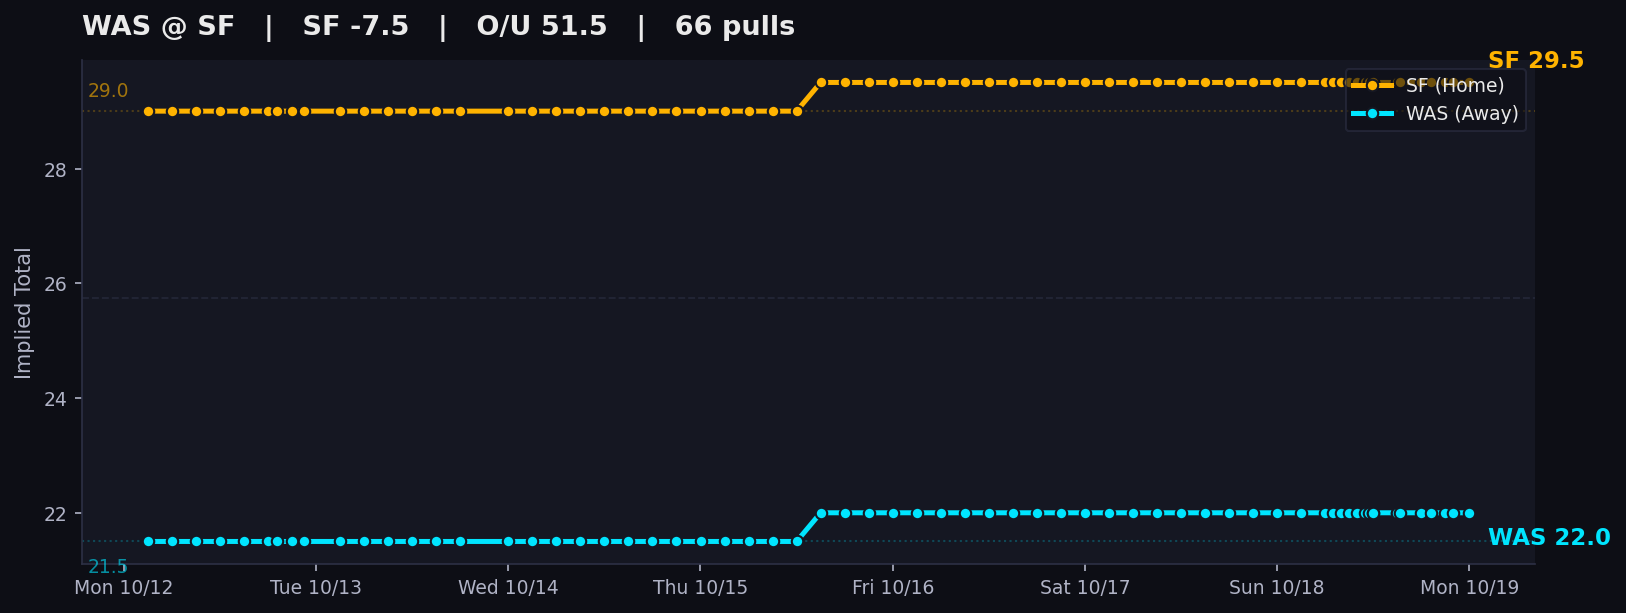
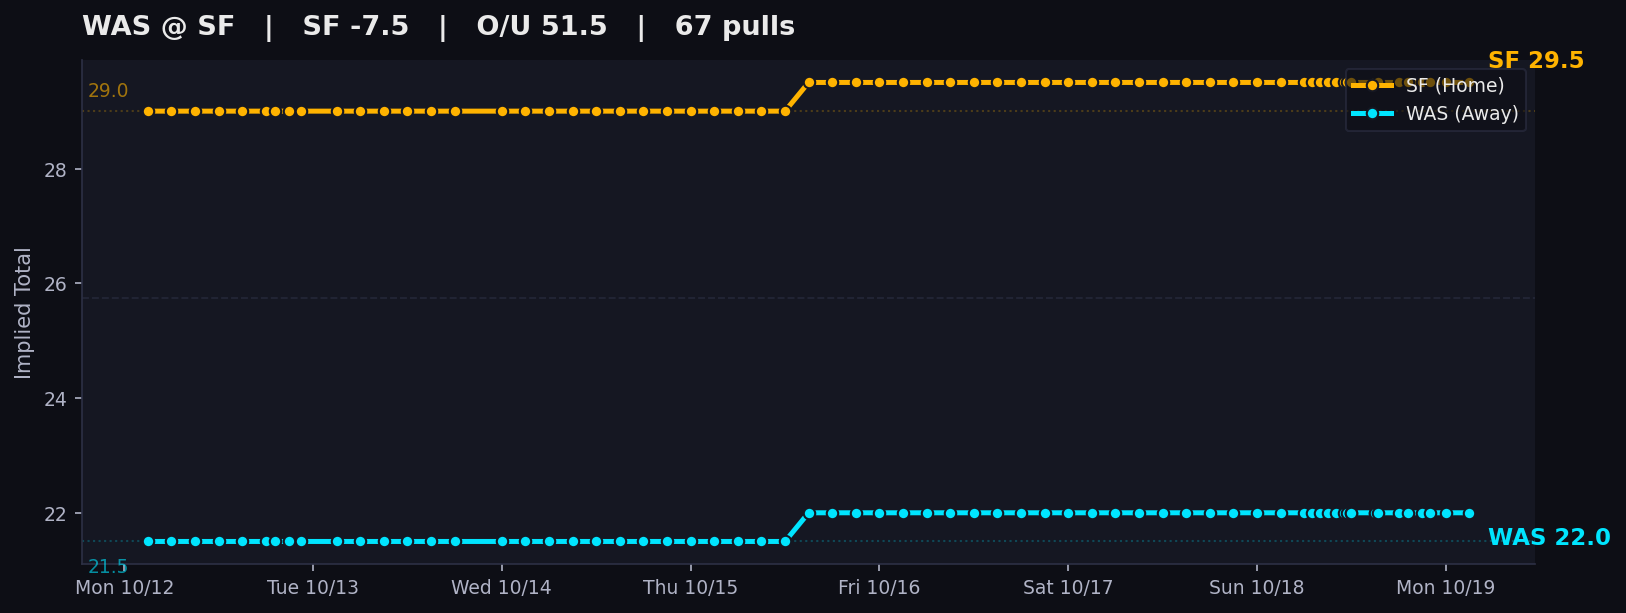
auto: local tracker sync

diff --git a/charts/index.html b/charts/index.html
@@ -311,7 +311,7 @@
     </div>
     <p class='sub'>
       DraftKings main lines &middot; Pinnacle cross-check &middot; Updated by the local Mac tracker<br>
-      Page rendered Mon Oct 19, 2026 12:00 AM CDT &middot; 830 valid chart dots &middot; 875 total pull attempts
+      Page rendered Mon Oct 19, 2026 3:00 AM CDT &middot; 831 valid chart dots &middot; 876 total pull attempts
       <span class='legend-box'>
         <span class='dot-teal'>● Away implied total</span>
         <span class='dot-amber'>● Home implied total</span>
@@ -324,9 +324,9 @@
     </details>
   </header>
 
-  <div id='feed-banner' class='alert-banner healthy' data-banner-kind='healthy' data-feed-ts='2026-10-19T05:00:00.890296+00:00' data-feed-ts-label='Mon Oct 19, 12:00 AM CDT'>
+  <div id='feed-banner' class='alert-banner healthy' data-banner-kind='healthy' data-feed-ts='2026-10-19T08:00:00.693175+00:00' data-feed-ts-label='Mon Oct 19, 3:00 AM CDT'>
             <span class='status-dot'></span>
-            <b>Feed Healthy:</b> All 1 open markets updated. 13 games have started and is showing its final verified pregame line. Board age based on oldest open market: <span id='feed-time'>Mon Oct 19, 12:00 AM CDT</span> (<span id='feed-age-dynamic'>just now</span>).
+            <b>Feed Healthy:</b> All 1 open markets updated. 13 games have started and is showing its final verified pregame line. Board age based on oldest open market: <span id='feed-time'>Mon Oct 19, 3:00 AM CDT</span> (<span id='feed-age-dynamic'>just now</span>).
         </div>
 
   <nav class='filter-bar' aria-label='Filter games by slate'>
@@ -396,7 +396,7 @@
                 <div><span>Last valid pull</span><strong>Thu 6:00 PM CT</strong></div>
                 <div><span>Chart dots</span><strong>34</strong></div>
             </div>
-                    <img class='expanded-chart' src='SEA_DEN.png?v=1792386016' alt='SEA at DEN line movement chart'>
+                    <img class='expanded-chart' src='SEA_DEN.png?v=1792396815' alt='SEA at DEN line movement chart'>
                     <p class='movement-note'>Total 42.5 → 40.5</p>
                 </div>
             </td>
@@ -437,7 +437,7 @@
                 <div><span>Last valid pull</span><strong>Sun 8:00 AM CT</strong></div>
                 <div><span>Chart dots</span><strong>56</strong></div>
             </div>
-                    <img class='expanded-chart' src='HOU_JAX.png?v=1792386016' alt='HOU at JAX line movement chart'>
+                    <img class='expanded-chart' src='HOU_JAX.png?v=1792396815' alt='HOU at JAX line movement chart'>
                     <p class='movement-note'>Spread JAX -3.0 → -2.5; Total 43.5 → 41.5</p>
                 </div>
             </td>
@@ -478,7 +478,7 @@
                 <div><span>Last valid pull</span><strong>Sun 12:00 PM CT</strong></div>
                 <div><span>Chart dots</span><strong>62</strong></div>
             </div>
-                    <img class='expanded-chart' src='CAR_PHI.png?v=1792386016' alt='CAR at PHI line movement chart'>
+                    <img class='expanded-chart' src='CAR_PHI.png?v=1792396815' alt='CAR at PHI line movement chart'>
                     <p class='movement-note'>Spread CAR +1.5 → -3.0; Total 42.5 → 39.5</p>
                 </div>
             </td>
@@ -513,7 +513,7 @@
                 <div><span>Last valid pull</span><strong>Sun 12:00 PM CT</strong></div>
                 <div><span>Chart dots</span><strong>55</strong></div>
             </div>
-                    <img class='expanded-chart' src='CHI_ATL.png?v=1792386016' alt='CHI at ATL line movement chart'>
+                    <img class='expanded-chart' src='CHI_ATL.png?v=1792396815' alt='CHI at ATL line movement chart'>
                     <p class='movement-note'>Spread CHI -3.0 → -1.5; Total 48.5 → 51.5</p>
                 </div>
             </td>
@@ -548,7 +548,7 @@
                 <div><span>Last valid pull</span><strong>Sun 12:00 PM CT</strong></div>
                 <div><span>Chart dots</span><strong>62</strong></div>
             </div>
-                    <img class='expanded-chart' src='PIT_TB.png?v=1792386016' alt='PIT at TB line movement chart'>
+                    <img class='expanded-chart' src='PIT_TB.png?v=1792396815' alt='PIT at TB line movement chart'>
                     <p class='movement-note'>Spread PIT -3.0 → -2.5; Total 40.5 → 37.5</p>
                 </div>
             </td>
@@ -583,7 +583,7 @@
                 <div><span>Last valid pull</span><strong>Sun 12:00 PM CT</strong></div>
                 <div><span>Chart dots</span><strong>62</strong></div>
             </div>
-                    <img class='expanded-chart' src='NO_NYG.png?v=1792386016' alt='NO at NYG line movement chart'>
+                    <img class='expanded-chart' src='NO_NYG.png?v=1792396815' alt='NO at NYG line movement chart'>
                     <p class='movement-note'>Spread NO +1.5 → -1.5</p>
                 </div>
             </td>
@@ -618,7 +618,7 @@
                 <div><span>Last valid pull</span><strong>Sun 12:00 PM CT</strong></div>
                 <div><span>Chart dots</span><strong>55</strong></div>
             </div>
-                    <img class='expanded-chart' src='BAL_CLE.png?v=1792386016' alt='BAL at CLE line movement chart'>
+                    <img class='expanded-chart' src='BAL_CLE.png?v=1792396815' alt='BAL at CLE line movement chart'>
                     <p class='movement-note'>Spread BAL -4.5 → -3.0; Total 40.5 → 39.5</p>
                 </div>
             </td>
@@ -653,7 +653,7 @@
                 <div><span>Last valid pull</span><strong>Sun 12:00 PM CT</strong></div>
                 <div><span>Chart dots</span><strong>62</strong></div>
             </div>
-                    <img class='expanded-chart' src='NYJ_NE.png?v=1792386016' alt='NYJ at NE line movement chart'>
+                    <img class='expanded-chart' src='NYJ_NE.png?v=1792396815' alt='NYJ at NE line movement chart'>
                     <p class='movement-note'>Total 44.5 → 43.5</p>
                 </div>
             </td>
@@ -688,7 +688,7 @@
                 <div><span>Last valid pull</span><strong>Sun 12:00 PM CT</strong></div>
                 <div><span>Chart dots</span><strong>62</strong></div>
             </div>
-                    <img class='expanded-chart' src='TEN_IND.png?v=1792386016' alt='TEN at IND line movement chart'>
+                    <img class='expanded-chart' src='TEN_IND.png?v=1792396815' alt='TEN at IND line movement chart'>
                     <p class='movement-note'>Spread IND -7.0 → -6.5; Total 44.5 → 43.5</p>
                 </div>
             </td>
@@ -729,7 +729,7 @@
                 <div><span>Last valid pull</span><strong>Sun 3:20 PM CT</strong></div>
                 <div><span>Chart dots</span><strong>64</strong></div>
             </div>
-                    <img class='expanded-chart' src='LAC_KC.png?v=1792386016' alt='LAC at KC line movement chart'>
+                    <img class='expanded-chart' src='LAC_KC.png?v=1792396815' alt='LAC at KC line movement chart'>
                     <p class='movement-note'>Spread KC -8.5 → -7.5; Total 43.5 → 41.5</p>
                 </div>
             </td>
@@ -764,7 +764,7 @@
                 <div><span>Last valid pull</span><strong>Sun 3:00 PM CT</strong></div>
                 <div><span>Chart dots</span><strong>62</strong></div>
             </div>
-                    <img class='expanded-chart' src='ARI_LAR.png?v=1792386016' alt='ARI at LAR line movement chart'>
+                    <img class='expanded-chart' src='ARI_LAR.png?v=1792396815' alt='ARI at LAR line movement chart'>
                     <p class='movement-note'>Total 52.5 → 51.5</p>
                 </div>
             </td>
@@ -799,7 +799,7 @@
                 <div><span>Last valid pull</span><strong>Sun 3:20 PM CT</strong></div>
                 <div><span>Chart dots</span><strong>62</strong></div>
             </div>
-                    <img class='expanded-chart' src='BUF_LVR.png?v=1792386016' alt='BUF at LVR line movement chart'>
+                    <img class='expanded-chart' src='BUF_LVR.png?v=1792396815' alt='BUF at LVR line movement chart'>
                     <p class='movement-note'>Spread BUF -6.0 → -5.5</p>
                 </div>
             </td>
@@ -840,7 +840,7 @@
                 <div><span>Last valid pull</span><strong>Sun 7:10 PM CT</strong></div>
                 <div><span>Chart dots</span><strong>66</strong></div>
             </div>
-                    <img class='expanded-chart' src='DAL_GB.png?v=1792386016' alt='DAL at GB line movement chart'>
+                    <img class='expanded-chart' src='DAL_GB.png?v=1792396815' alt='DAL at GB line movement chart'>
                     <p class='movement-note'>Spread DAL +1.5 → -1.5; Total 52.5 → 53.5</p>
                 </div>
             </td>
@@ -856,13 +856,13 @@
             <td><b>SF -7.5</b></td>
             <td class='flat'>--</td>
             <td>50.5</td>
-            <td><b>51.5</b> <span class='div' title='Pinnacle divergence ≥ 1 pt'>*</span></td>
+            <td><b>51.5</b></td>
             <td class='delta'><span class='movement-badge'>1.0</span></td>
             <td class='it-away'>WAS 22.0</td>
             <td class='it-home'>SF 29.5</td>
             <td class='reason' title='Total 50.5 → 51.5'>Total 50.5 → 51.5</td>
-            <td style='text-align:center;'><span class='pill-fresh'>12:00 AM CT</span></td>
-            <td class='snaps'>66</td>
+            <td style='text-align:center;'><span class='pill-fresh'>3:00 AM CT</span></td>
+            <td class='snaps'>67</td>
         </tr>
         <tr id='desktop-panel-WAS_SF' class='chart-detail-row' data-slate='MNF' data-game-panel='WAS_SF' hidden>
             <td colspan='12'>
@@ -878,10 +878,10 @@
                 <div><span>Current total</span><strong>51.5</strong></div>
                 <div><span>Away implied</span><strong class='it-away'>WAS 22.0</strong></div>
                 <div><span>Home implied</span><strong class='it-home'>SF 29.5</strong></div>
-                <div><span>Last valid pull</span><strong>12:00 AM CT</strong></div>
-                <div><span>Chart dots</span><strong>66</strong></div>
+                <div><span>Last valid pull</span><strong>3:00 AM CT</strong></div>
+                <div><span>Chart dots</span><strong>67</strong></div>
             </div>
-                    <img class='expanded-chart' src='WAS_SF.png?v=1792386016' alt='WAS at SF line movement chart'>
+                    <img class='expanded-chart' src='WAS_SF.png?v=1792396815' alt='WAS at SF line movement chart'>
                     <p class='movement-note'>Total 50.5 → 51.5</p>
                 </div>
             </td>
@@ -916,7 +916,7 @@
                 <div><span>Last valid pull</span><strong>Thu 6:00 PM CT</strong></div>
                 <div><span>Chart dots</span><strong>34</strong></div>
             </div>
-                <img class='expanded-chart' src='SEA_DEN.png?v=1792386016' alt='SEA at DEN line movement chart'>
+                <img class='expanded-chart' src='SEA_DEN.png?v=1792396815' alt='SEA at DEN line movement chart'>
                 <p class='pull-note'><span class='pull-dot'></span> Every dot is a valid completed pull · 34 chart dots</p>
             </div>
         </article><article class='mobile-game-card closed-game' data-slate='OTHER_PRIMETIME' data-game='HOU_JAX'>
@@ -943,7 +943,7 @@
                 <div><span>Last valid pull</span><strong>Sun 8:00 AM CT</strong></div>
                 <div><span>Chart dots</span><strong>56</strong></div>
             </div>
-                <img class='expanded-chart' src='HOU_JAX.png?v=1792386016' alt='HOU at JAX line movement chart'>
+                <img class='expanded-chart' src='HOU_JAX.png?v=1792396815' alt='HOU at JAX line movement chart'>
                 <p class='pull-note'><span class='pull-dot'></span> Every dot is a valid completed pull · 56 chart dots</p>
             </div>
         </article><article class='mobile-game-card closed-game' data-slate='SUN_EARLY' data-game='CAR_PHI'>
@@ -970,7 +970,7 @@
                 <div><span>Last valid pull</span><strong>Sun 12:00 PM CT</strong></div>
                 <div><span>Chart dots</span><strong>62</strong></div>
             </div>
-                <img class='expanded-chart' src='CAR_PHI.png?v=1792386016' alt='CAR at PHI line movement chart'>
+                <img class='expanded-chart' src='CAR_PHI.png?v=1792396815' alt='CAR at PHI line movement chart'>
                 <p class='pull-note'><span class='pull-dot'></span> Every dot is a valid completed pull · 62 chart dots</p>
             </div>
         </article><article class='mobile-game-card closed-game' data-slate='SUN_EARLY' data-game='CHI_ATL'>
@@ -997,7 +997,7 @@
                 <div><span>Last valid pull</span><strong>Sun 12:00 PM CT</strong></div>
                 <div><span>Chart dots</span><strong>55</strong></div>
             </div>
-                <img class='expanded-chart' src='CHI_ATL.png?v=1792386016' alt='CHI at ATL line movement chart'>
+                <img class='expanded-chart' src='CHI_ATL.png?v=1792396815' alt='CHI at ATL line movement chart'>
                 <p class='pull-note'><span class='pull-dot'></span> Every dot is a valid completed pull · 55 chart dots</p>
             </div>
         </article><article class='mobile-game-card closed-game' data-slate='SUN_EARLY' data-game='PIT_TB'>
@@ -1024,7 +1024,7 @@
                 <div><span>Last valid pull</span><strong>Sun 12:00 PM CT</strong></div>
                 <div><span>Chart dots</span><strong>62</strong></div>
             </div>
-                <img class='expanded-chart' src='PIT_TB.png?v=1792386016' alt='PIT at TB line movement chart'>
+                <img class='expanded-chart' src='PIT_TB.png?v=1792396815' alt='PIT at TB line movement chart'>
                 <p class='pull-note'><span class='pull-dot'></span> Every dot is a valid completed pull · 62 chart dots</p>
             </div>
         </article><article class='mobile-game-card closed-game' data-slate='SUN_EARLY' data-game='NO_NYG'>
@@ -1051,7 +1051,7 @@
                 <div><span>Last valid pull</span><strong>Sun 12:00 PM CT</strong></div>
                 <div><span>Chart dots</span><strong>62</strong></div>
             </div>
-                <img class='expanded-chart' src='NO_NYG.png?v=1792386016' alt='NO at NYG line movement chart'>
+                <img class='expanded-chart' src='NO_NYG.png?v=1792396815' alt='NO at NYG line movement chart'>
                 <p class='pull-note'><span class='pull-dot'></span> Every dot is a valid completed pull · 62 chart dots</p>
             </div>
         </article><article class='mobile-game-card closed-game' data-slate='SUN_EARLY' data-game='BAL_CLE'>
@@ -1078,7 +1078,7 @@
                 <div><span>Last valid pull</span><strong>Sun 12:00 PM CT</strong></div>
                 <div><span>Chart dots</span><strong>55</strong></div>
             </div>
-                <img class='expanded-chart' src='BAL_CLE.png?v=1792386016' alt='BAL at CLE line movement chart'>
+                <img class='expanded-chart' src='BAL_CLE.png?v=1792396815' alt='BAL at CLE line movement chart'>
                 <p class='pull-note'><span class='pull-dot'></span> Every dot is a valid completed pull · 55 chart dots</p>
             </div>
         </article><article class='mobile-game-card closed-game' data-slate='SUN_EARLY' data-game='NYJ_NE'>
@@ -1105,7 +1105,7 @@
                 <div><span>Last valid pull</span><strong>Sun 12:00 PM CT</strong></div>
                 <div><span>Chart dots</span><strong>62</strong></div>
             </div>
-                <img class='expanded-chart' src='NYJ_NE.png?v=1792386016' alt='NYJ at NE line movement chart'>
+                <img class='expanded-chart' src='NYJ_NE.png?v=1792396815' alt='NYJ at NE line movement chart'>
                 <p class='pull-note'><span class='pull-dot'></span> Every dot is a valid completed pull · 62 chart dots</p>
             </div>
         </article><article class='mobile-game-card closed-game' data-slate='SUN_EARLY' data-game='TEN_IND'>
@@ -1132,7 +1132,7 @@
                 <div><span>Last valid pull</span><strong>Sun 12:00 PM CT</strong></div>
                 <div><span>Chart dots</span><strong>62</strong></div>
             </div>
-                <img class='expanded-chart' src='TEN_IND.png?v=1792386016' alt='TEN at IND line movement chart'>
+                <img class='expanded-chart' src='TEN_IND.png?v=1792396815' alt='TEN at IND line movement chart'>
                 <p class='pull-note'><span class='pull-dot'></span> Every dot is a valid completed pull · 62 chart dots</p>
             </div>
         </article><article class='mobile-game-card closed-game' data-slate='SUN_LATE' data-game='LAC_KC'>
@@ -1159,7 +1159,7 @@
                 <div><span>Last valid pull</span><strong>Sun 3:20 PM CT</strong></div>
                 <div><span>Chart dots</span><strong>64</strong></div>
             </div>
-                <img class='expanded-chart' src='LAC_KC.png?v=1792386016' alt='LAC at KC line movement chart'>
+                <img class='expanded-chart' src='LAC_KC.png?v=1792396815' alt='LAC at KC line movement chart'>
                 <p class='pull-note'><span class='pull-dot'></span> Every dot is a valid completed pull · 64 chart dots</p>
             </div>
         </article><article class='mobile-game-card closed-game' data-slate='SUN_LATE' data-game='ARI_LAR'>
@@ -1186,7 +1186,7 @@
                 <div><span>Last valid pull</span><strong>Sun 3:00 PM CT</strong></div>
                 <div><span>Chart dots</span><strong>62</strong></div>
             </div>
-                <img class='expanded-chart' src='ARI_LAR.png?v=1792386016' alt='ARI at LAR line movement chart'>
+                <img class='expanded-chart' src='ARI_LAR.png?v=1792396815' alt='ARI at LAR line movement chart'>
                 <p class='pull-note'><span class='pull-dot'></span> Every dot is a valid completed pull · 62 chart dots</p>
             </div>
         </article><article class='mobile-game-card closed-game' data-slate='SUN_LATE' data-game='BUF_LVR'>
@@ -1213,7 +1213,7 @@
                 <div><span>Last valid pull</span><strong>Sun 3:20 PM CT</strong></div>
                 <div><span>Chart dots</span><strong>62</strong></div>
             </div>
-                <img class='expanded-chart' src='BUF_LVR.png?v=1792386016' alt='BUF at LVR line movement chart'>
+                <img class='expanded-chart' src='BUF_LVR.png?v=1792396815' alt='BUF at LVR line movement chart'>
                 <p class='pull-note'><span class='pull-dot'></span> Every dot is a valid completed pull · 62 chart dots</p>
             </div>
         </article><article class='mobile-game-card closed-game' data-slate='SNF' data-game='DAL_GB'>
@@ -1240,7 +1240,7 @@
                 <div><span>Last valid pull</span><strong>Sun 7:10 PM CT</strong></div>
                 <div><span>Chart dots</span><strong>66</strong></div>
             </div>
-                <img class='expanded-chart' src='DAL_GB.png?v=1792386016' alt='DAL at GB line movement chart'>
+                <img class='expanded-chart' src='DAL_GB.png?v=1792396815' alt='DAL at GB line movement chart'>
                 <p class='pull-note'><span class='pull-dot'></span> Every dot is a valid completed pull · 66 chart dots</p>
             </div>
         </article><article class='mobile-game-card ' data-slate='MNF' data-game='WAS_SF'>
@@ -1264,11 +1264,11 @@
                 <div><span>Current total</span><strong>51.5</strong></div>
                 <div><span>Away implied</span><strong class='it-away'>WAS 22.0</strong></div>
                 <div><span>Home implied</span><strong class='it-home'>SF 29.5</strong></div>
-                <div><span>Last valid pull</span><strong>12:00 AM CT</strong></div>
-                <div><span>Chart dots</span><strong>66</strong></div>
+                <div><span>Last valid pull</span><strong>3:00 AM CT</strong></div>
+                <div><span>Chart dots</span><strong>67</strong></div>
             </div>
-                <img class='expanded-chart' src='WAS_SF.png?v=1792386016' alt='WAS at SF line movement chart'>
-                <p class='pull-note'><span class='pull-dot'></span> Every dot is a valid completed pull · 66 chart dots</p>
+                <img class='expanded-chart' src='WAS_SF.png?v=1792396815' alt='WAS at SF line movement chart'>
+                <p class='pull-note'><span class='pull-dot'></span> Every dot is a valid completed pull · 67 chart dots</p>
             </div>
         </article>
   </section>
